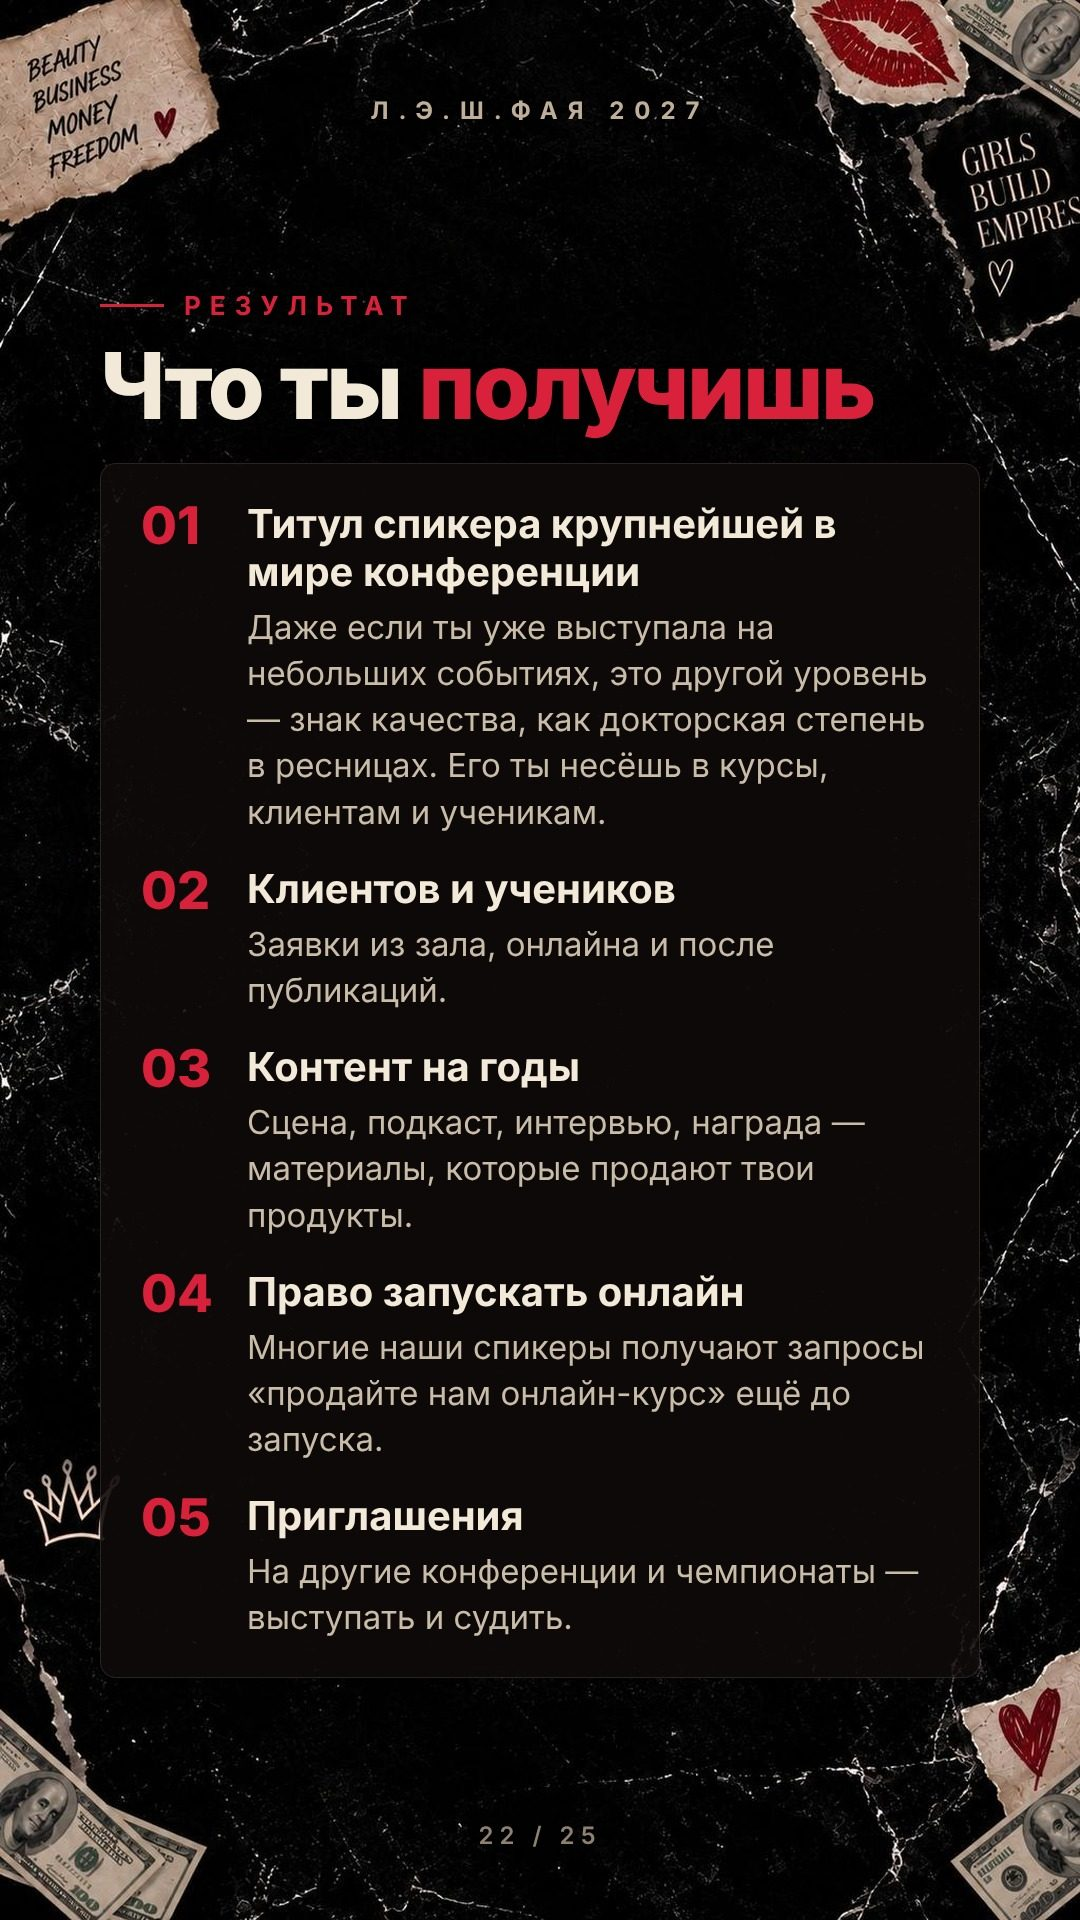
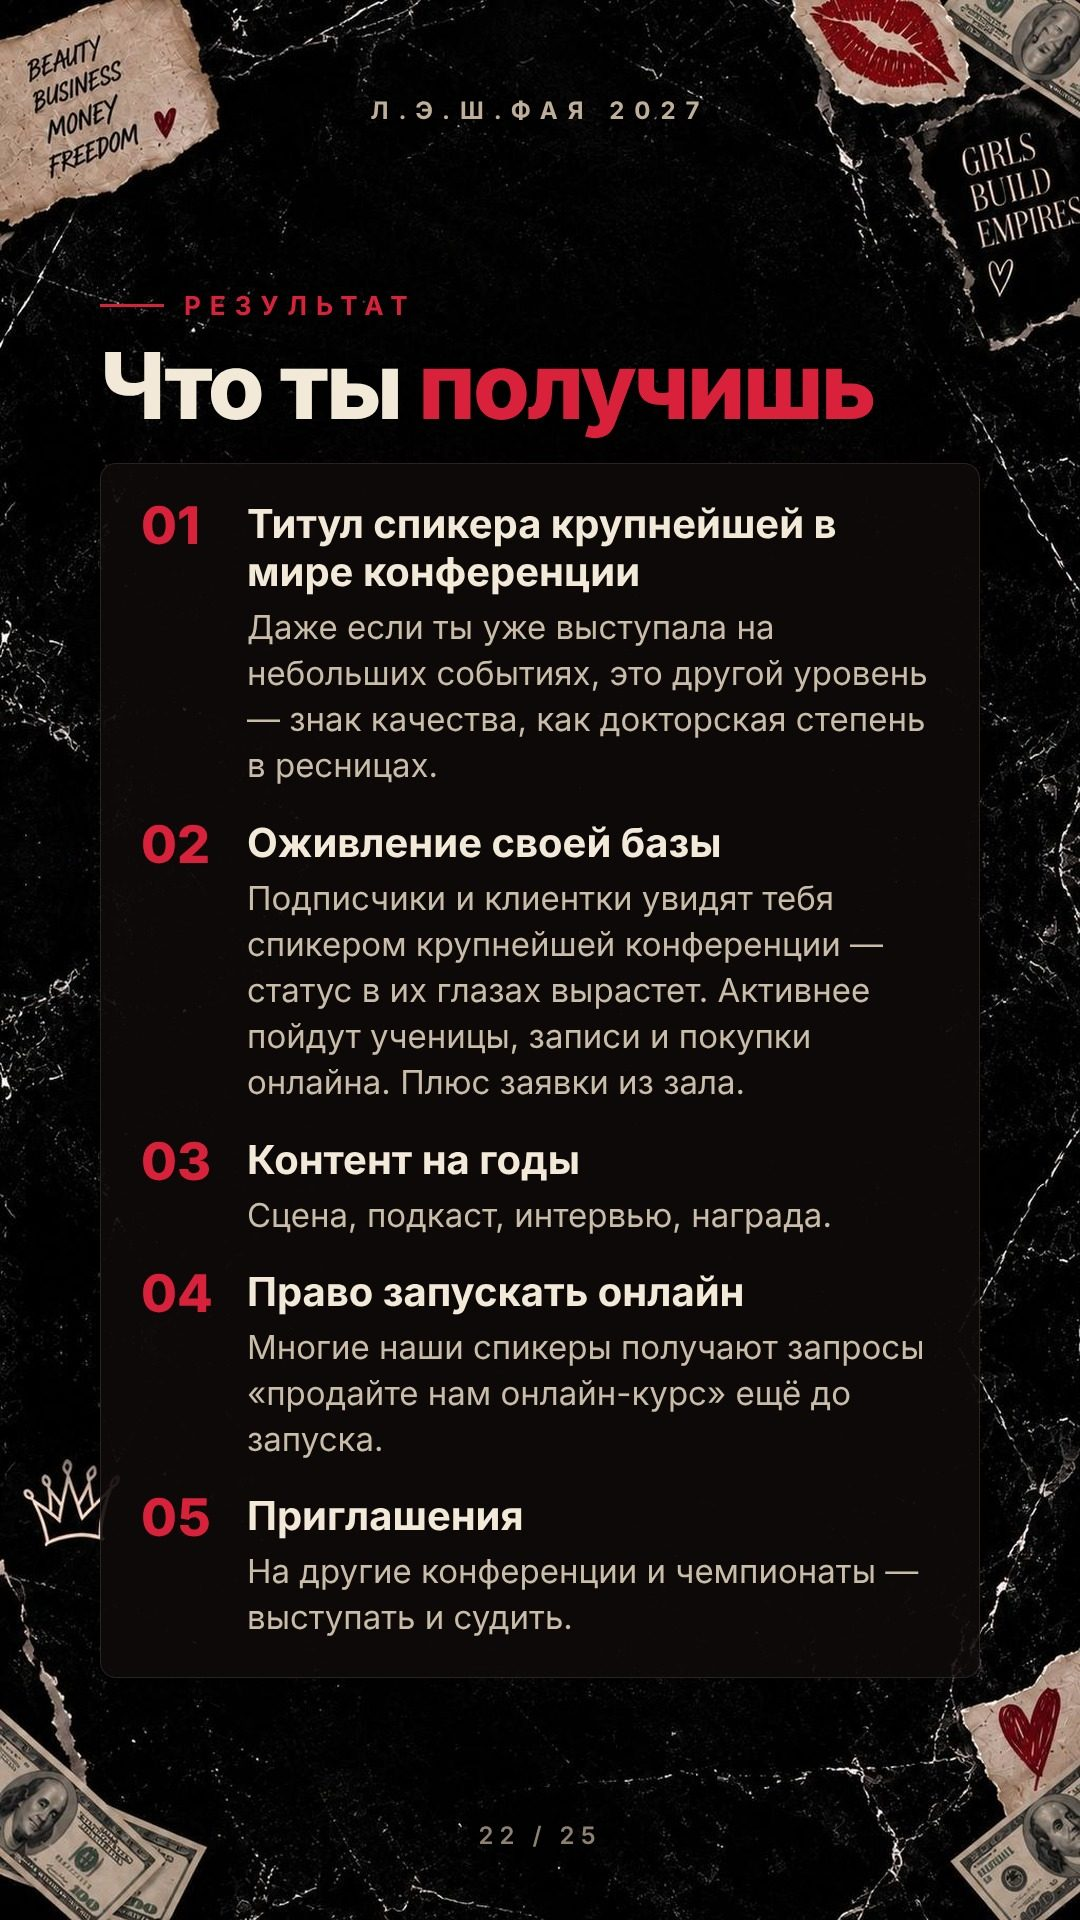
Оживление своей базы в «Что ты получишь»
Claude-Session: https://claude.ai/code/session_01KxHKsqFZP9q9nJcN93KArK

Changed region(s): [[0.1222, 0.375, 0.7944, 0.6562], [0.6417, 0.375, 0.7639, 0.4062]]

diff --git a/index.html b/index.html
@@ -6,7 +6,7 @@
 <meta name="description" content="Стань новой звездой лэш-индустрии на крупнейшей в мире конференции по ресницам. ЛэшФая 2027, 14–15 января, Москва.">
 <meta property="og:title" content="ЛэшФая 2027 — предложение для спикеров">
 <meta property="og:description" content="Стань новой звездой лэш-индустрии. 14–15 января 2027, Москва.">
-<meta property="og:image" content="https://speaker-lash.vercel.app/og.jpg?v=1794491859">
+<meta property="og:image" content="https://speaker-lash.vercel.app/og.jpg?v=1794491919">
 <meta property="og:url" content="https://speaker-lash.vercel.app/">
 <meta property="og:type" content="website">
 <meta name="theme-color" content="#050404">
@@ -25,33 +25,33 @@ html{scroll-behavior:smooth}
 .ig{display:block;margin:0 16px 20px;padding:16px;border:1px solid rgba(243,233,216,.35);border-radius:14px;color:#F3E9D8;text-align:center;font:600 16px/1.2 -apple-system,Inter,Arial,sans-serif;text-decoration:none;background:#0e0a09}
 </style></head>
 <body><main>
-<a class="first" href="#s2"><img src="s/sp_01.jpg?v=1794491859" width="1080" height="1920" alt="Слайд 1"><span class="hint">Листайте вниз<i>↓</i></span></a>
-<span id="s2"></span><img src="s/sp_02.jpg?v=1794491859" width="1080" height="1920" alt="Слайд 2">
-<img src="s/sp_03.jpg?v=1794491859" width="1080" height="1920" alt="Слайд 3" loading="lazy">
-<img src="s/sp_04.jpg?v=1794491859" width="1080" height="1920" alt="Слайд 4" loading="lazy">
-<img src="s/sp_05.jpg?v=1794491859" width="1080" height="1920" alt="Слайд 5" loading="lazy">
+<a class="first" href="#s2"><img src="s/sp_01.jpg?v=1794491919" width="1080" height="1920" alt="Слайд 1"><span class="hint">Листайте вниз<i>↓</i></span></a>
+<span id="s2"></span><img src="s/sp_02.jpg?v=1794491919" width="1080" height="1920" alt="Слайд 2">
+<img src="s/sp_03.jpg?v=1794491919" width="1080" height="1920" alt="Слайд 3" loading="lazy">
+<img src="s/sp_04.jpg?v=1794491919" width="1080" height="1920" alt="Слайд 4" loading="lazy">
+<img src="s/sp_05.jpg?v=1794491919" width="1080" height="1920" alt="Слайд 5" loading="lazy">
 <a class="ig" href="https://www.instagram.com/lashfire_world/" target="_blank" rel="noopener">Открыть @lashfire_world в Instagram →</a>
-<img src="s/sp_06.jpg?v=1794491859" width="1080" height="1920" alt="Слайд 6" loading="lazy">
-<img src="s/sp_07.jpg?v=1794491859" width="1080" height="1920" alt="Слайд 7" loading="lazy">
-<img src="s/sp_08.jpg?v=1794491859" width="1080" height="1920" alt="Слайд 8" loading="lazy">
-<img src="s/sp_09.jpg?v=1794491859" width="1080" height="1920" alt="Слайд 9" loading="lazy">
-<img src="s/sp_10.jpg?v=1794491859" width="1080" height="1920" alt="Слайд 10" loading="lazy">
-<img src="s/sp_11.jpg?v=1794491859" width="1080" height="1920" alt="Слайд 11" loading="lazy">
-<img src="s/sp_12.jpg?v=1794491859" width="1080" height="1920" alt="Слайд 12" loading="lazy">
-<img src="s/sp_13.jpg?v=1794491859" width="1080" height="1920" alt="Слайд 13" loading="lazy">
-<img src="s/sp_14.jpg?v=1794491859" width="1080" height="1920" alt="Слайд 14" loading="lazy">
+<img src="s/sp_06.jpg?v=1794491919" width="1080" height="1920" alt="Слайд 6" loading="lazy">
+<img src="s/sp_07.jpg?v=1794491919" width="1080" height="1920" alt="Слайд 7" loading="lazy">
+<img src="s/sp_08.jpg?v=1794491919" width="1080" height="1920" alt="Слайд 8" loading="lazy">
+<img src="s/sp_09.jpg?v=1794491919" width="1080" height="1920" alt="Слайд 9" loading="lazy">
+<img src="s/sp_10.jpg?v=1794491919" width="1080" height="1920" alt="Слайд 10" loading="lazy">
+<img src="s/sp_11.jpg?v=1794491919" width="1080" height="1920" alt="Слайд 11" loading="lazy">
+<img src="s/sp_12.jpg?v=1794491919" width="1080" height="1920" alt="Слайд 12" loading="lazy">
+<img src="s/sp_13.jpg?v=1794491919" width="1080" height="1920" alt="Слайд 13" loading="lazy">
+<img src="s/sp_14.jpg?v=1794491919" width="1080" height="1920" alt="Слайд 14" loading="lazy">
 <a class="ig" href="https://www.instagram.com/lashfire_world/" target="_blank" rel="noopener">Открыть @lashfire_world в Instagram →</a>
-<img src="s/sp_15.jpg?v=1794491859" width="1080" height="1920" alt="Слайд 15" loading="lazy">
-<img src="s/sp_16.jpg?v=1794491859" width="1080" height="1920" alt="Слайд 16" loading="lazy">
-<img src="s/sp_17.jpg?v=1794491859" width="1080" height="1920" alt="Слайд 17" loading="lazy">
-<img src="s/sp_18.jpg?v=1794491859" width="1080" height="1920" alt="Слайд 18" loading="lazy">
-<img src="s/sp_19.jpg?v=1794491859" width="1080" height="1920" alt="Слайд 19" loading="lazy">
-<img src="s/sp_20.jpg?v=1794491859" width="1080" height="1920" alt="Слайд 20" loading="lazy">
-<img src="s/sp_21.jpg?v=1794491859" width="1080" height="1920" alt="Слайд 21" loading="lazy">
-<img src="s/sp_22.jpg?v=1794491859" width="1080" height="1920" alt="Слайд 22" loading="lazy">
-<img src="s/sp_23.jpg?v=1794491859" width="1080" height="1920" alt="Слайд 23" loading="lazy">
-<img src="s/sp_24.jpg?v=1794491859" width="1080" height="1920" alt="Слайд 24" loading="lazy">
-<img src="s/sp_25.jpg?v=1794491859" width="1080" height="1920" alt="Слайд 25" loading="lazy">
+<img src="s/sp_15.jpg?v=1794491919" width="1080" height="1920" alt="Слайд 15" loading="lazy">
+<img src="s/sp_16.jpg?v=1794491919" width="1080" height="1920" alt="Слайд 16" loading="lazy">
+<img src="s/sp_17.jpg?v=1794491919" width="1080" height="1920" alt="Слайд 17" loading="lazy">
+<img src="s/sp_18.jpg?v=1794491919" width="1080" height="1920" alt="Слайд 18" loading="lazy">
+<img src="s/sp_19.jpg?v=1794491919" width="1080" height="1920" alt="Слайд 19" loading="lazy">
+<img src="s/sp_20.jpg?v=1794491919" width="1080" height="1920" alt="Слайд 20" loading="lazy">
+<img src="s/sp_21.jpg?v=1794491919" width="1080" height="1920" alt="Слайд 21" loading="lazy">
+<img src="s/sp_22.jpg?v=1794491919" width="1080" height="1920" alt="Слайд 22" loading="lazy">
+<img src="s/sp_23.jpg?v=1794491919" width="1080" height="1920" alt="Слайд 23" loading="lazy">
+<img src="s/sp_24.jpg?v=1794491919" width="1080" height="1920" alt="Слайд 24" loading="lazy">
+<img src="s/sp_25.jpg?v=1794491919" width="1080" height="1920" alt="Слайд 25" loading="lazy">
 <a class="ig" style="margin-top:24px" href="https://www.instagram.com/lashfire_world/" target="_blank" rel="noopener">Страница конференции: @lashfire_world →</a>
 <a class="cta" style="margin-top:12px" href="tel:+79234444906">Позвонить Дмитрию: +7 923 444-49-06</a>
 </main></body></html>
